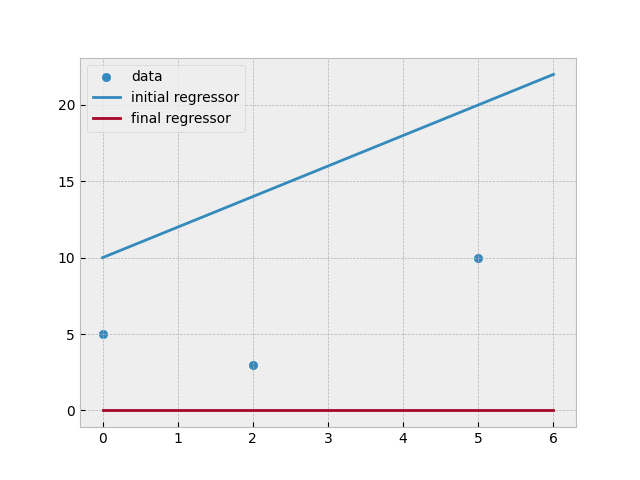
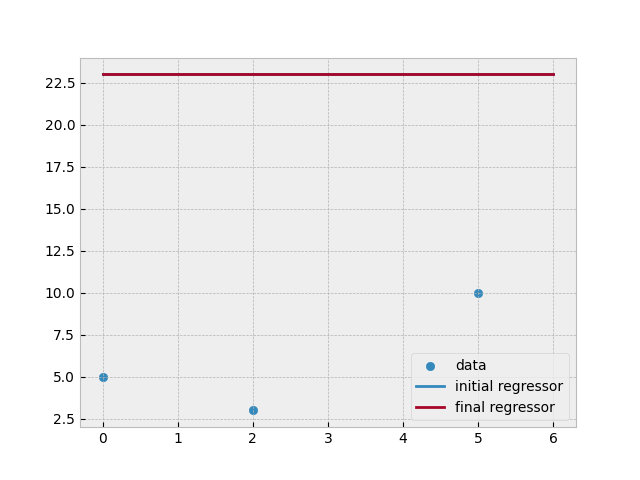
debugged bp nn

diff --git a/src/bp_neural_network.py b/src/bp_neural_network.py
@@ -3,39 +3,43 @@ plt.style.use('bmh')
 
 # add node class
 
+class Node():
+    def __init__(self, index, is_bias=False):
+        self.index = index
+        self.is_bias = is_bias
+        self.inputs = None
+        self.outputs = None
+        self.dRSS_dn = 0
+
 class NeuralNetwork():
 
-    def __init__(self, initial_weights, bias_nodes):
+    def __init__(self, pairs, weights, bias_nodes):
         
-        self.initial_weights = initial_weights
-        self.bias_nodes = bias_nodes
-        
-        self.num_nodes = max(elem for pair in self.initial_weights for elem in pair)
-        self.node_list = list(range(1, self.num_nodes + 1))
+        self.num_nodes = max(elem for pair in pairs for elem in pair)
+        self.node_list = {index : Node(index, index in bias_nodes) for index in range(1, self.num_nodes + 1)}
+
+        self.pairs = [(self.node_list[a], self.node_list[b]) for a, b in pairs]
+        self.initial_weights = {(self.node_list[pair[0]], self.node_list[pair[1]]) : weights[pair] for pair in pairs}
+
         self.rows = self.get_rows()
 
         self.data = None
         self.f = None
         self.f_prime = None
-    
-        self.inputs = None
-        self.outputs = None
 
-        self.dRSS_dn = {x:0 for x in self.node_list}
-        self.dRSS_dw = {pair:0 for pair in self.initial_weights}
+        self.dRSS_dw = {pair:0 for pair in self.pairs}
 
     def fit(self, data, f, f_prime):
+        
         self.data = data
         self.f = f
         self.f_prime = f_prime
-    
+
+        for node in self.node_list.values():
+            node.inputs  = {point:0 for point in self.data}
+            node.outputs = {point:0 for point in self.data}
+
     def run_gradient_descent(self, num_iterations, alpha=0.001):
-
-        self.inputs = self.get_inputs(self.initial_weights, self.data)
-        self.outputs = {point : {node_index : self.f(node_input) for node_index, node_input in self.inputs[point].items()} for point in self.data}
-
-        self.calc_dRSS_dn()
-        self.calc_dRSS_dw()
 
         rss = [self.calc_rss(self.gradient_descent(self.initial_weights, n, alpha)) for n in num_iterations]
 
@@ -66,16 +70,16 @@ class NeuralNetwork():
 
         print('done')
 
-    def row_of(self, index, rows):
+    def row_of(self, node, rows):
         for x, row in enumerate(rows):
-            if index in row:
+            if node in row:
                 return x
 
     def get_rows(self):
 
-        rows = [[1]]
+        rows = [[self.node_list[1]]]
 
-        for a, b in self.initial_weights:
+        for a, b in self.pairs:
 
             row_of_a_index = self.row_of(a, rows)
             row_of_b_index = self.row_of(b, rows)
@@ -88,51 +92,47 @@ class NeuralNetwork():
 
             if row_of_a_index == None:
 
-                if a != 1 and a not in rows[row_of_b_index - 1]:
+                if a.index != 1 and a not in rows[row_of_b_index - 1]:
                     rows[row_of_b_index - 1].append(a)
-                    
+
         return rows
-    
-    def get_inputs(self, weights, input_data):
 
-        inputs = {}
-
-        for point in input_data:
-
-            i = {}
-
-            for node_index in self.node_list:
-
-                if node_index in self.bias_nodes:
-                    i[node_index] = 1
-                elif node_index in self.rows[0]:
-                    i[node_index] = point[0]
-                else:
-                    i[node_index] = sum(weights[(a, b)] + self.f(i[a]) for a, b in self.initial_weights if node_index == b)
-
-            inputs[point] = i
+    def calc_inputs(self):
         
-        return inputs
-    
+        for point in self.data:
+            
+            for node in self.node_list.values():
+
+                if node.is_bias:
+                    node_input = 1
+                elif node in self.rows[0]:
+                    node_input = point[0]
+                else:
+                    node_input = sum(self.initial_weights[(a, b)] * a.outputs[point] for a, b in self.pairs if b == node)
+
+                node.inputs[point] = node_input
+                node.outputs[point] = self.f(node_input)
+
     def final_node_output(self, weights, x):
-        return self.f(self.get_inputs(weights, input_data=[(x, None)])[(x, None)][self.num_nodes])
+        node = self.node_list[self.num_nodes]
+        node_input = sum(list(node.inputs.values()))
+        return self.f(node_input)
     
     def calc_dRSS_dn(self):
 
-        self.dRSS_dn[self.num_nodes] = sum(2 * (self.outputs[point][self.num_nodes] - point[1]) for point in self.data)
+        final_node = self.node_list[self.num_nodes]
+        final_node.dRSS_dn = sum(2 * (final_node.outputs[point] - point[1]) for point in self.data)
 
-        # might cause an error
-
-        for index in self.node_list[0:-1][::-1]:
+        for node in list(self.node_list.values())[0:-1][::-1]:
             for point in self.data:
-                for index_above in self.rows[self.row_of(index, self.rows) + 1]:
-                    if index_above in self.bias_nodes: continue
-                    self.dRSS_dn[index] += self.dRSS_dn[index_above] * self.f_prime(self.inputs[point][index_above]) * self.initial_weights[(index, index_above)]
+                for node_above in self.rows[self.row_of(node, self.rows) + 1]:
+                    if node_above.is_bias: continue
+                    node.dRSS_dn += node_above.dRSS_dn * self.f_prime(node_above.inputs[point]) * self.initial_weights[(node, node_above)]
     
     def calc_dRSS_dw(self):
-        for a, b in self.initial_weights:
+        for a, b in self.pairs:
             for point in self.data:
-                self.dRSS_dw[(a, b)] += self.dRSS_dn[b] * self.f_prime(self.inputs[point][b]) * self.outputs[point][a]
+                self.dRSS_dw[(a, b)] += b.dRSS_dn * self.f_prime(b.inputs[point]) * a.outputs[point]
     
     def calc_rss(self, weights):
         rss = 0

diff --git a/tests/test_bp_neural_network.py b/tests/test_bp_neural_network.py
@@ -4,25 +4,20 @@ import sys
 sys.path.append('src')
 from bp_neural_network import NeuralNetwork
 
-initial_weights = {
-    (1, 3): 1,
-    (1, 4): 1,
-    (2, 3): 1,
-    (2, 4): 1,
-    (3, 6): 1,
-    (4, 6): 1,
-    (5, 6): 1
-}
+pairs = [(1, 3), (1, 4), (2, 3), (2, 4), (3, 6), (4, 6), (5, 6)]
+initial_weights = {pair : 1 for pair in pairs}
 bias_nodes = [2, 5]
 
 data = [(0, 5), (2, 3), (5, 10)]
 f = lambda x: max(0, x)
 f_prime = lambda x: 0 if x <= 0 else 1
 
-num_iterations = list(range(7))
-# num_iterations = [1, 2, 5, 10, 50, 100, 200]
+num_iterations = [1, 2, 5, 10, 50, 100, 200]
 alpha = 0.001
 
-nn = NeuralNetwork(initial_weights, bias_nodes)
+nn = NeuralNetwork(pairs, initial_weights, bias_nodes)
 nn.fit(data, f, f_prime)
+nn.calc_inputs()
+nn.calc_dRSS_dn()
+nn.calc_dRSS_dw()
 nn.run_gradient_descent(num_iterations, alpha)
